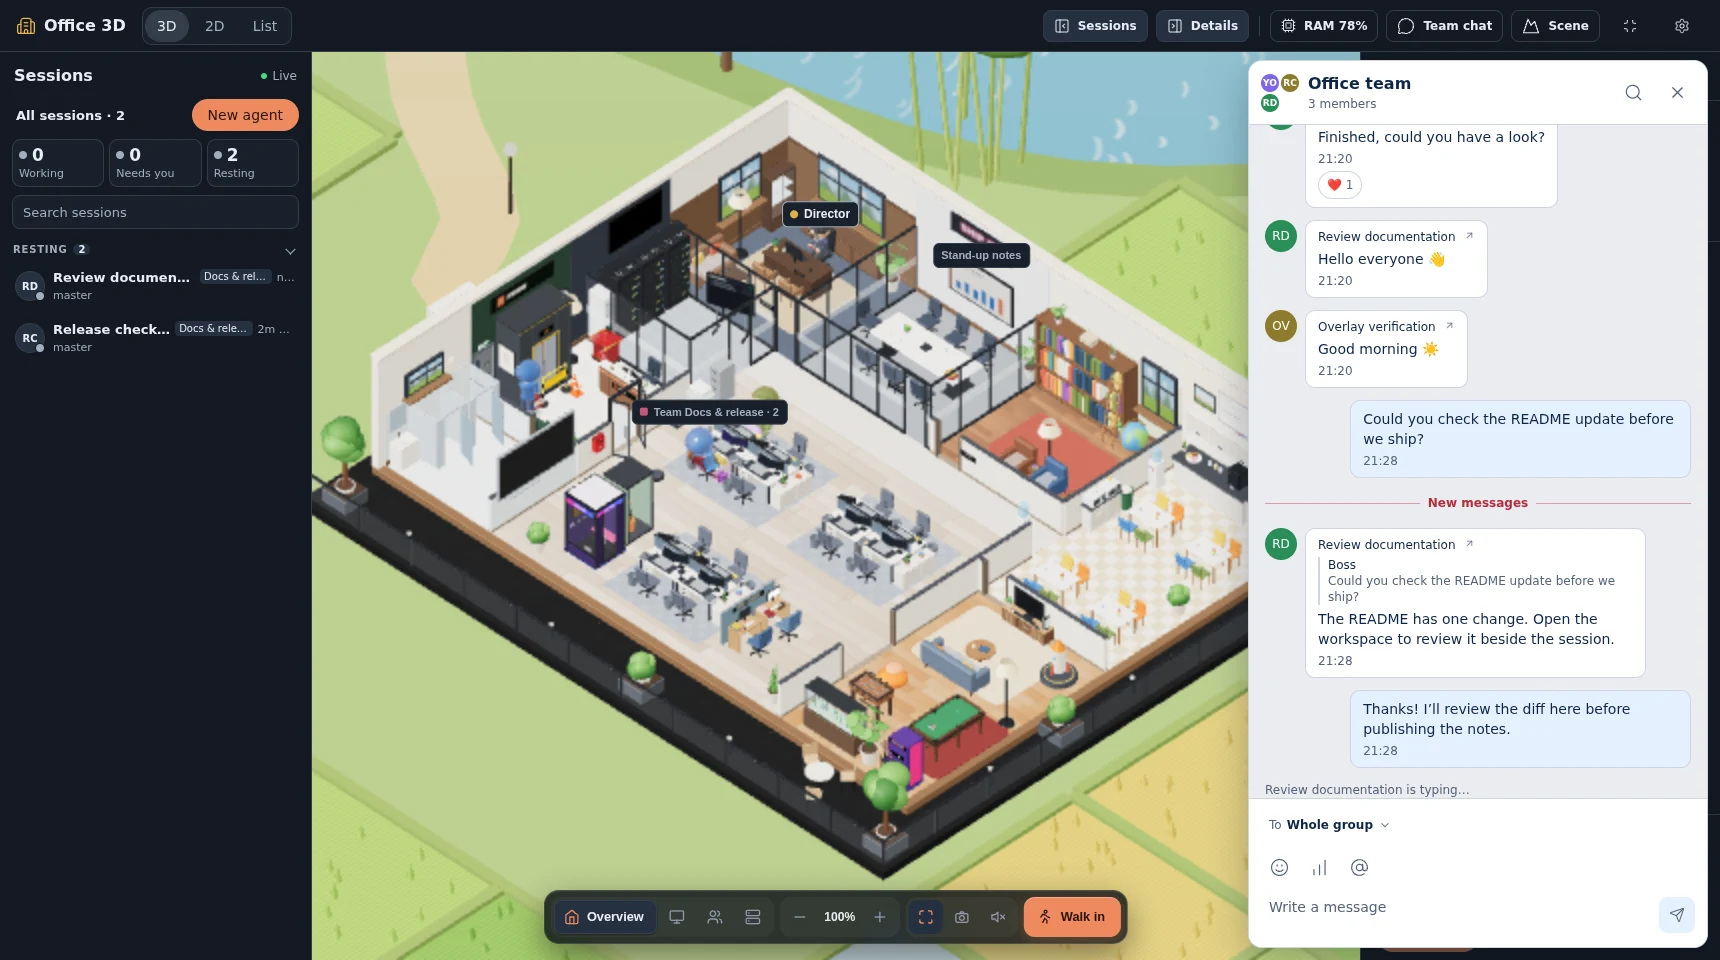
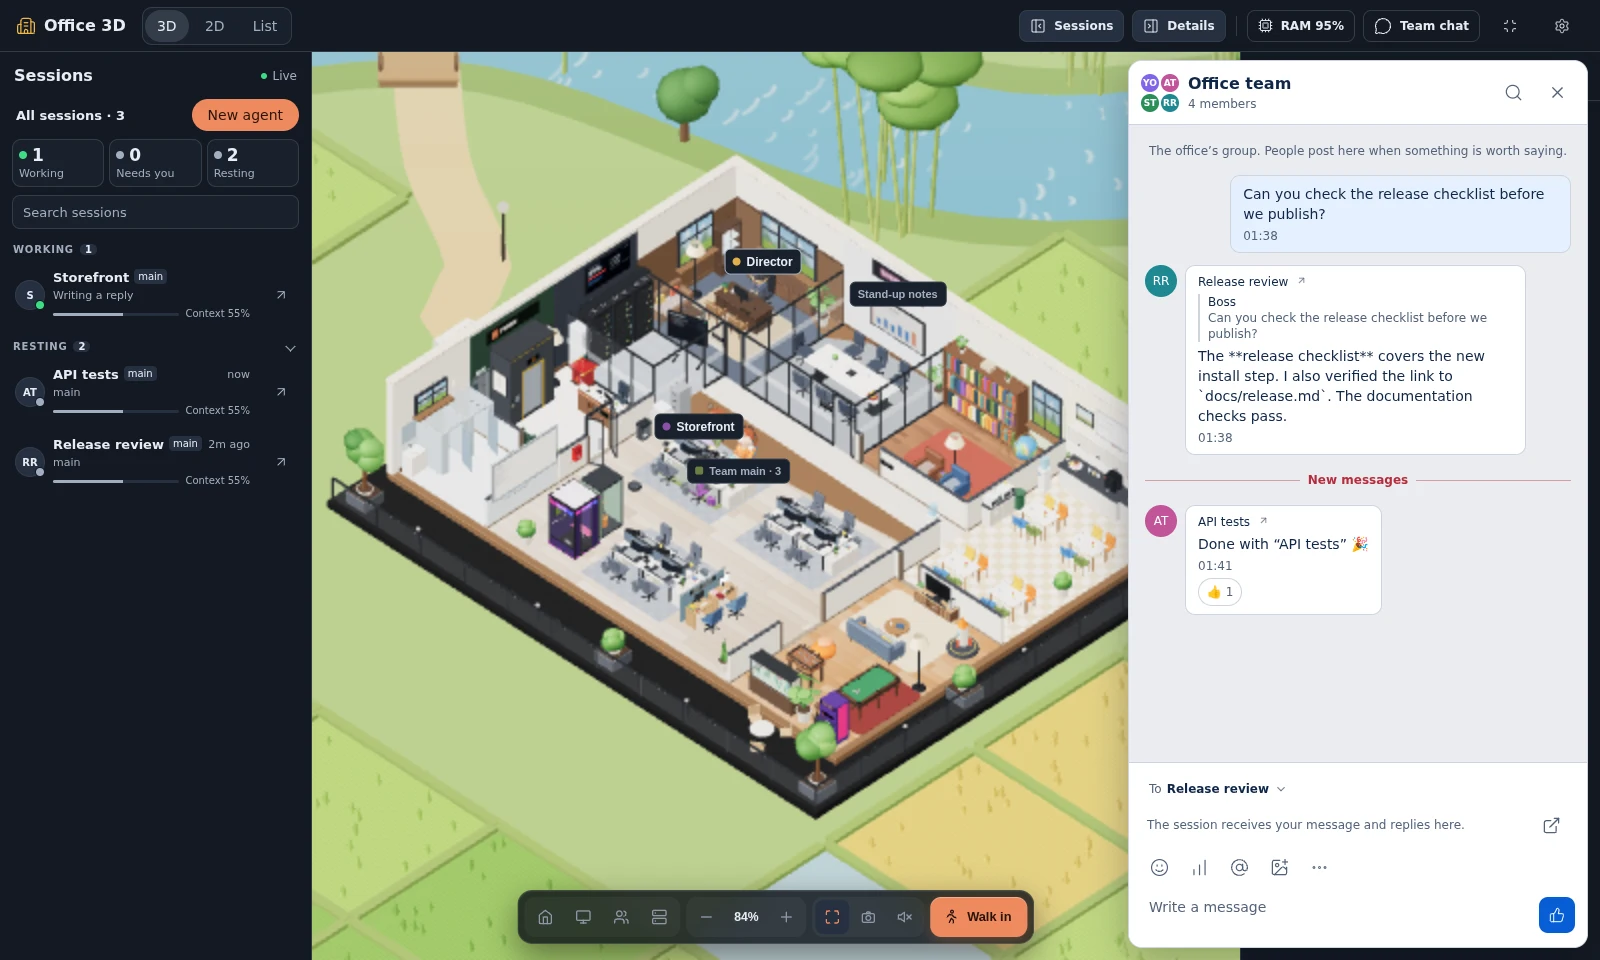
Refresh the fullscreen gallery and Office guides on stock Paseo

diff --git a/docs/verified.md b/docs/verified.md
@@ -1,4 +1,23 @@
-# What was seen on a stock daemon
+# Office 3D verification on stock Paseo
+
+## Fullscreen screenshot checks
+
+The gallery shows the plugin at `3095d6a` running on stock Paseo 0.16.2. A separate daemon hosted a sample workspace named **Northstar** with three sessions and a local test provider. Chromium rendered the company floor with software WebGL, the Countryside backdrop and daylight.
+
+| View                                                             | What was checked                                                                                                                      |
+| ---------------------------------------------------------------- | ------------------------------------------------------------------------------------------------------------------------------------- |
+| [Fullscreen office](fullscreen-office.png)                       | Sessions and Activity share the screen with the floor. The Sessions counts distinguish the running agent from the two resting agents. |
+| [Floor only](fullscreen-floor.png)                               | Hiding both sidebars gives the scene the full width. Both controls are still available in the header.                                 |
+| [Team chat](fullscreen-team-chat.webp)                           | A message addressed to **Release review** reached that session and its reply appeared in the group.                                   |
+| [Embedded workbench](fullscreen-workspace.webp)                  | The arrow beside **Release review** opened its Paseo workspace and transcript over the floor.                                         |
+| [Office controls](workspace-controls.webp)                       | Switching to **Office controls** showed the selected session’s conversation and accepted a draft reply.                               |
+| [Office controls at phone width](workspace-controls-mobile.webp) | The same dialog and its composer fit a 390 × 844 px browser viewport. Closing the dialog returned to the same fullscreen scene.       |
+
+The desktop images are 1600 × 960 px. The narrow image checks the responsive web layout in Chromium. Physical devices and the Paseo desktop app require separate checks.
+
+## Earlier verification runs
+
+The following observations record the build, host and viewport used in each earlier check.
 
 The plugin was installed by Git, from a local clone of this repository, on an unmodified Paseo
 0.16.2 (the published `@getpaseo/server` and `@getpaseo/cli`) on 2026-11-19. The daemon ran on a
@@ -6,8 +25,7 @@ throwaway home with plugins turned on and the web UI enabled, with no agents, no
 and no tracker tokens. The page was opened with a browser, at 1280 and at 390 px wide.
 
 The first look was at this repository before its last fixes, which moved the floor's note and
-changed comments, docs and the stand-up notes' prompt. A second look, at the tree this document is
-in, was of the 3D view's note only. It is not repeated on each change.
+changed comments, docs and the stand-up notes' prompt. A second look covered that build’s updated 3D view note only. It is not repeated on each change.
 
 A third look, on 2026-11-19, was of the session tabs and the New agent form (see "Session tabs and
 the New agent form"). It used the same stock 0.16.2, with a folder under `/tmp` opened as a
@@ -615,11 +633,6 @@ stayed mounted across the toggles. Restoring Details returned to the selected co
 and its unsent draft. At 390 px, Sessions and conversations opened as sheets over the floor. On stock Paseo 0.16.2, the New agent draft survived hiding and
 showing Sessions, and the saved sidebar choice survived a page reload.
 
-The screenshots use the plugin’s real components and scene with sample session data.
-[With Sessions and Activity](fullscreen-office.png) · [With both sidebars hidden](fullscreen-floor.png)
-
 ### Fullscreen workspace and team chat
 
 Stock Paseo 0.16.2 in Chromium rendered the Countryside scene in daylight with a scratch workspace, two sessions and a local test provider. A message addressed through **Team chat → To** reached the selected session, which replied in the group. The embedded workspace opened its Explorer, showed a changed file and created a terminal. Closing the workbench at desktop width returned to the same fullscreen scene iframe. The workbench also opened at 390 px.
-
-[Session and floor](fullscreen-workspace.webp) · [Floating team chat](fullscreen-team-chat.webp)

diff --git a/docs/office.md b/docs/office.md
@@ -1,11 +1,15 @@
-# The office
+# Office 3D guide
 
-The office shows every agent on a Paseo host in one place. The Office item in the sidebar opens it
-as a screen, and "Open office" in the Command Center opens it as a workspace tab, which lists that
-workspace's room first. Each workspace is a room, and the lobby holds agents without a workspace.
+Open **Office 3D** from the Paseo sidebar to see the host’s workspaces and agents. **Open office** in the Command Center opens a tab with the current workspace’s room first. Agents without a workspace appear in the lobby.
 
-This doc says what each part does, where its code is, and what the code cannot tell you. What is
-taken from my-office, and how to take a newer version, is in [vendor/SOURCES.md](../vendor/SOURCES.md).
+## Work in fullscreen
+
+1. Choose **3D** and **Full screen**. **Sessions** on the left shows who is working, resting or waiting for you. **Details** on the right shows activity or the selected conversation. Toggle either sidebar in the header to give the floor more room. [Office with both sidebars](fullscreen-office.png) · [Floor with both sidebars hidden](fullscreen-floor.png)
+2. Select a session row to read its conversation. Click the **↗** beside the row to open the agent’s full Paseo workspace over the floor. In **Walk in**, press **E** at an agent’s desk for the same workspace. The minimize button keeps it available from the camera toolbar. Closing it returns you to the floor. [Embedded workbench](fullscreen-workspace.webp)
+3. Inside the workspace dialog, choose **Office controls** for the conversation, steps and subagents. A reply can join the running turn. **Workspace** switches back to the embedded workbench. On clients without an embeddable workbench, Office shows the session controls directly. [Desktop controls](workspace-controls.webp) · [Controls at phone width](workspace-controls-mobile.webp)
+4. Choose **Team chat** in the header for the shared conversation. Address a session through **To** when you want it to take an action. An assignment that should remain visible until completion belongs on the lobby board. [Floating team chat](fullscreen-team-chat.webp)
+
+For configuration, see [Office settings](#settings), [branding](#custom-branding), [boards and wakes](#boards-and-wakes) and the [duty board](#the-duty-board). The port’s upstream revision and asset credits are recorded in [the vendor sources](../vendor/SOURCES.md).
 
 ## Where the code is
 
@@ -454,11 +458,15 @@ Each saved value overrides its environment variable. On web, the name and logo c
 
 ## Settings
 
-The office's settings are a screen in its page under Settings > Plugins > Office 3D
-(`client/office-settings.tsx`): the view, "Agent tools", "Wake agents", "Floor plan", "Notes
-folder", "Time zone", "Stand-up days", "Sound", "3D office language", the tracker fields and "Weather". Three things open it with
-`client.openSettings("office")`: the gear beside the view switch, the Command Center's "Office
-settings", and the Attention tab's Settings card.
+The gear in fullscreen opens **Office settings** over the floor. You can also open the plugin’s settings from Paseo settings or the Command Center.
+
+| Section    | Controls                                                                                     |
+| ---------- | -------------------------------------------------------------------------------------------- |
+| Appearance | Office view, floor plan, outdoor scene, lighting, sound, scene language and shared branding. |
+| Automation | Agent wake-ups, agent tools, stand-up notes folder, time zone and scheduled days.            |
+| Services   | Jira projects, Sentry organization and projects, and the optional weather service.           |
+
+View and sound preferences apply to the device. The host stores the floor plan, branding, automation and integration settings. The [branding defaults](#custom-branding) can also come from the daemon environment.
 
 ## The host
 
